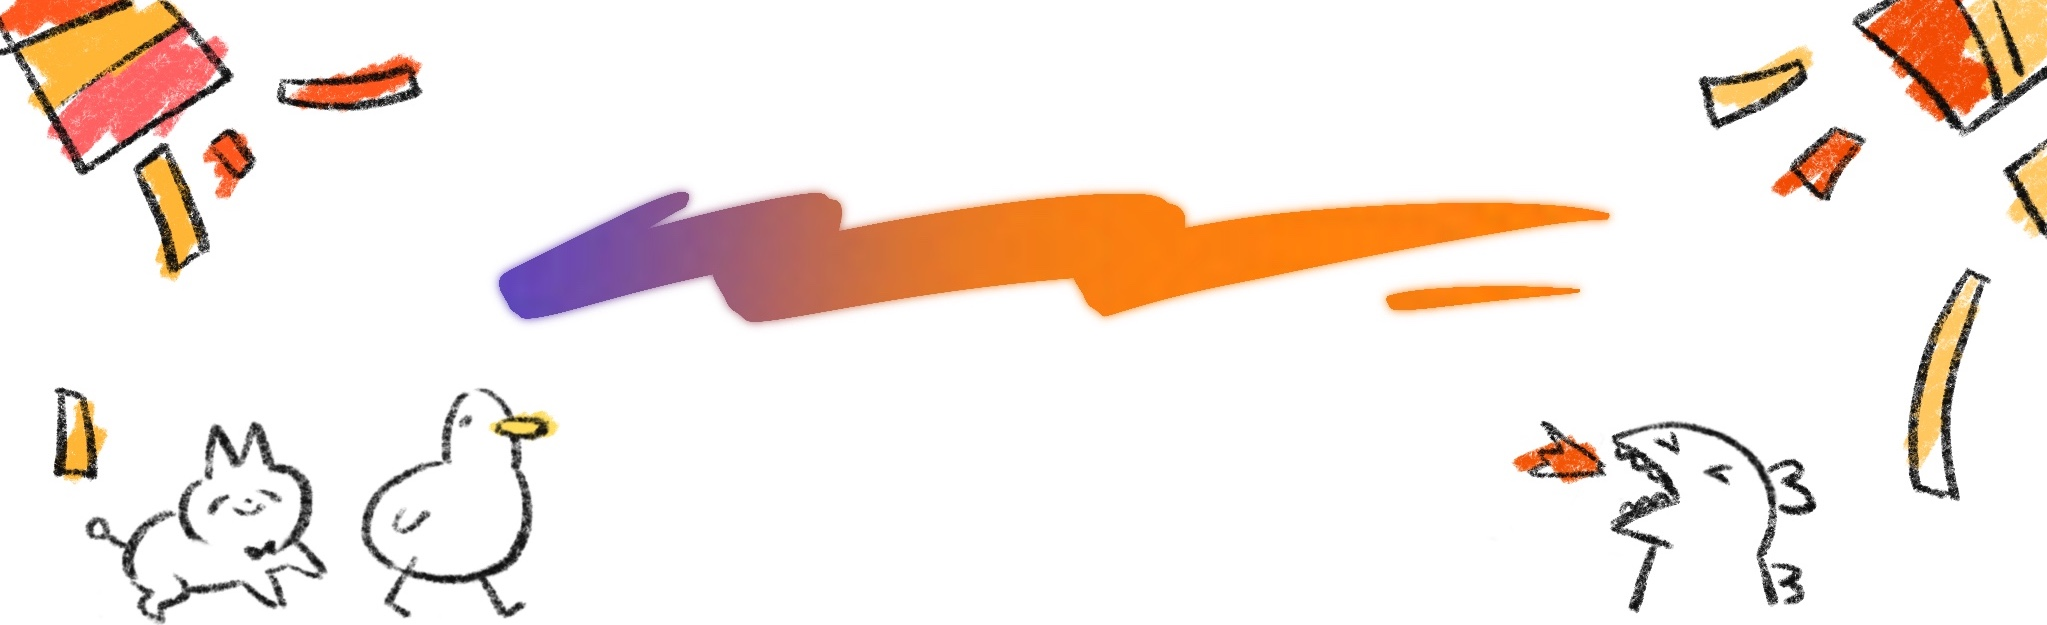
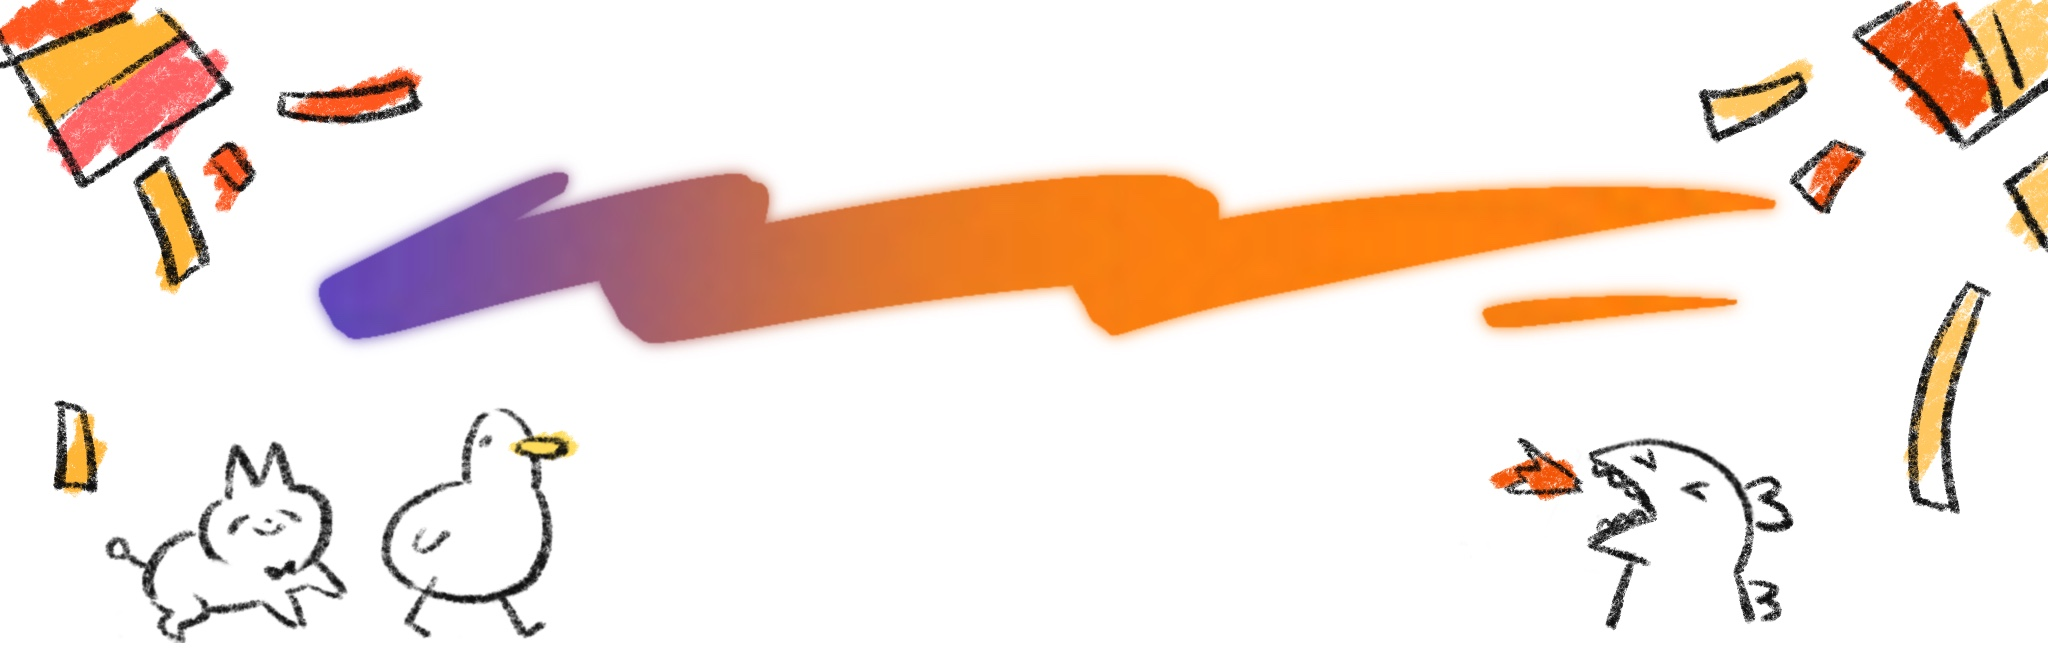
test push on main

diff --git a/static/index.css b/static/index.css
@@ -1,13 +1,17 @@
 .btn-primary{
-    margin-top: 1rem;
+    margin-top: 2rem;
     width: 150px;
-    margin-right: 1rem;
+    margin-right: 2rem;
 }
 .btn-secondary{
-    margin-top: 1rem;
+    margin-top: 2rem;
     width: 150px;
-    margin-left: 1rem;
+    margin-left: 2rem;
     background-color: rgb(226, 226, 226)
+}
+
+#greeting{
+    font-size: xx-large;
 }
 
 #banner{
@@ -17,7 +21,7 @@
     /* background-image: url("{{url_for('static',filename='memes_img/banner.jpg')}}"); */
     background-image: linear-gradient(to right, white, rgba(255, 255, 255, 0), white), url("/static/memes_img/banner.jpg");
     background-position: center center;
-    background-size: auto 120%;
+    background-size: cover;
     background-repeat: no-repeat;
     border-top-style: solid;
     border-color: #777;

diff --git a/static/home.css b/static/home.css
@@ -1,11 +1,11 @@
 #banner{
     margin-top: 0; margin-bottom: 3%;
     text-align: center;
-    padding-top: 10%; padding-bottom: 10%;
+    padding-top: 5%; padding-bottom: 5%;
     /* background-image: url("{{url_for('static',filename='memes_img/banner.jpg')}}"); */
     background-image: linear-gradient(to right, white, rgba(255, 255, 255, 0), white), url("/static/memes_img/banner.jpg");
     background-position: center center;
-    background-size: auto 120%;
+    background-size: cover;
     background-repeat: no-repeat;
     border-top-style: solid;
     border-color: #777;
